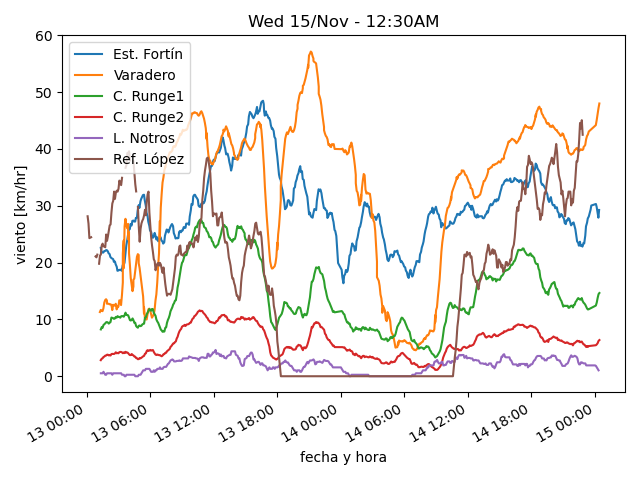
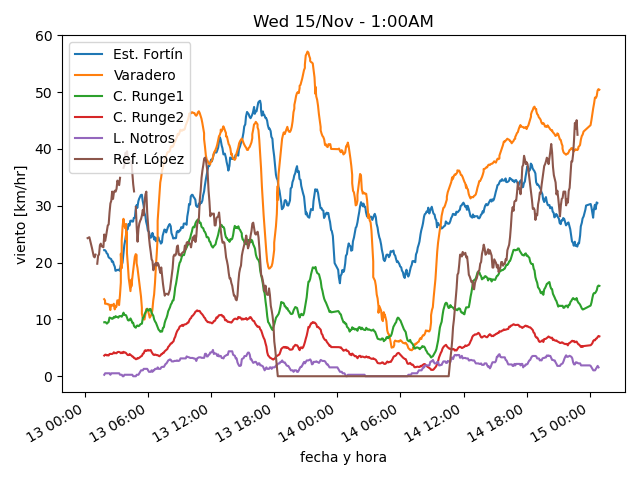
actualiza datos

diff --git a/estaciones/estacion1.html b/estaciones/estacion1.html
@@ -18,7 +18,7 @@
     </tr>
     <tr>
      <td class="stats_data">
-      12:23AM
+      12:43AM
      </td>
     </tr>
     <tr>
@@ -28,22 +28,22 @@
     </tr>
     <tr>
      <td class="stats_data">
-      -1.8⁰C
+      -1.9⁰C
      </td>
     </tr>
     <tr>
      <td class="stats_data">
-      67.5%
+      67.0%
      </td>
     </tr>
     <tr>
      <td class="stats_data">
-      1012.87hPa
+      1012.19hPa
      </td>
     </tr>
     <tr>
      <td class="stats_data">
-      25.7/42.6 km/hr W
+      21.6/32.2 km/hr WSW
      </td>
     </tr>
     <tr>

diff --git a/estaciones/estacion3.html b/estaciones/estacion3.html
@@ -18,7 +18,7 @@
     </tr>
     <tr>
      <td class="stats_data">
-      12:24AM
+      12:54AM
      </td>
     </tr>
     <tr>
@@ -28,22 +28,22 @@
     </tr>
     <tr>
      <td class="stats_data">
-      -0.6⁰C
+      -0.7⁰C
      </td>
     </tr>
     <tr>
      <td class="stats_data">
-      75.4%
+      75.0%
      </td>
     </tr>
     <tr>
      <td class="stats_data">
-      1002.13hPa
+      1001.73hPa
      </td>
     </tr>
     <tr>
      <td class="stats_data">
-      10.3/15.0 km/hr W
+      11.5/17.6 km/hr WNW
      </td>
     </tr>
     <tr>

diff --git a/estaciones/estacion2.html b/estaciones/estacion2.html
@@ -18,7 +18,7 @@
     </tr>
     <tr>
      <td class="stats_data">
-      12:24AM
+      12:54AM
      </td>
     </tr>
     <tr>
@@ -28,22 +28,22 @@
     </tr>
     <tr>
      <td class="stats_data">
-      1.3⁰C
+      1.5⁰C
      </td>
     </tr>
     <tr>
      <td class="stats_data">
-      75.0%
+      76.3%
      </td>
     </tr>
     <tr>
      <td class="stats_data">
-      1017.34hPa
+      1016.93hPa
      </td>
     </tr>
     <tr>
      <td class="stats_data">
-      42.8/50.8 km/hr NW
+      42.3/48.7 km/hr NW
      </td>
     </tr>
     <tr>

diff --git a/estaciones/estacion4.html b/estaciones/estacion4.html
@@ -18,7 +18,7 @@
     </tr>
     <tr>
      <td class="stats_data">
-      12:24AM
+      12:54AM
      </td>
     </tr>
     <tr>
@@ -28,22 +28,22 @@
     </tr>
     <tr>
      <td class="stats_data">
-      -1.6⁰C
+      -1.7⁰C
      </td>
     </tr>
     <tr>
      <td class="stats_data">
-      70.8%
+      70.6%
      </td>
     </tr>
     <tr>
      <td class="stats_data">
-      1010.94hPa
+      1010.53hPa
      </td>
     </tr>
     <tr>
      <td class="stats_data">
-      4.7/7.7 km/hr SSW
+      4.6/6.7 km/hr SSW
      </td>
     </tr>
     <tr>

diff --git a/estaciones/estacion5.html b/estaciones/estacion5.html
@@ -18,27 +18,27 @@
     </tr>
     <tr>
      <td class="stats_data">
-      12:20AM
+      12:50AM
      </td>
     </tr>
     <tr>
      <td class="stats_data">
-      3.8⁰C
+      3.7⁰C
      </td>
     </tr>
     <tr>
      <td class="stats_data">
-      -1.6⁰C
+      -1.5⁰C
      </td>
     </tr>
     <tr>
      <td class="stats_data">
-      68.0%
+      69.0%
      </td>
     </tr>
     <tr>
      <td class="stats_data">
-      1015.0hPa
+      1014.8hPa
      </td>
     </tr>
     <tr>
